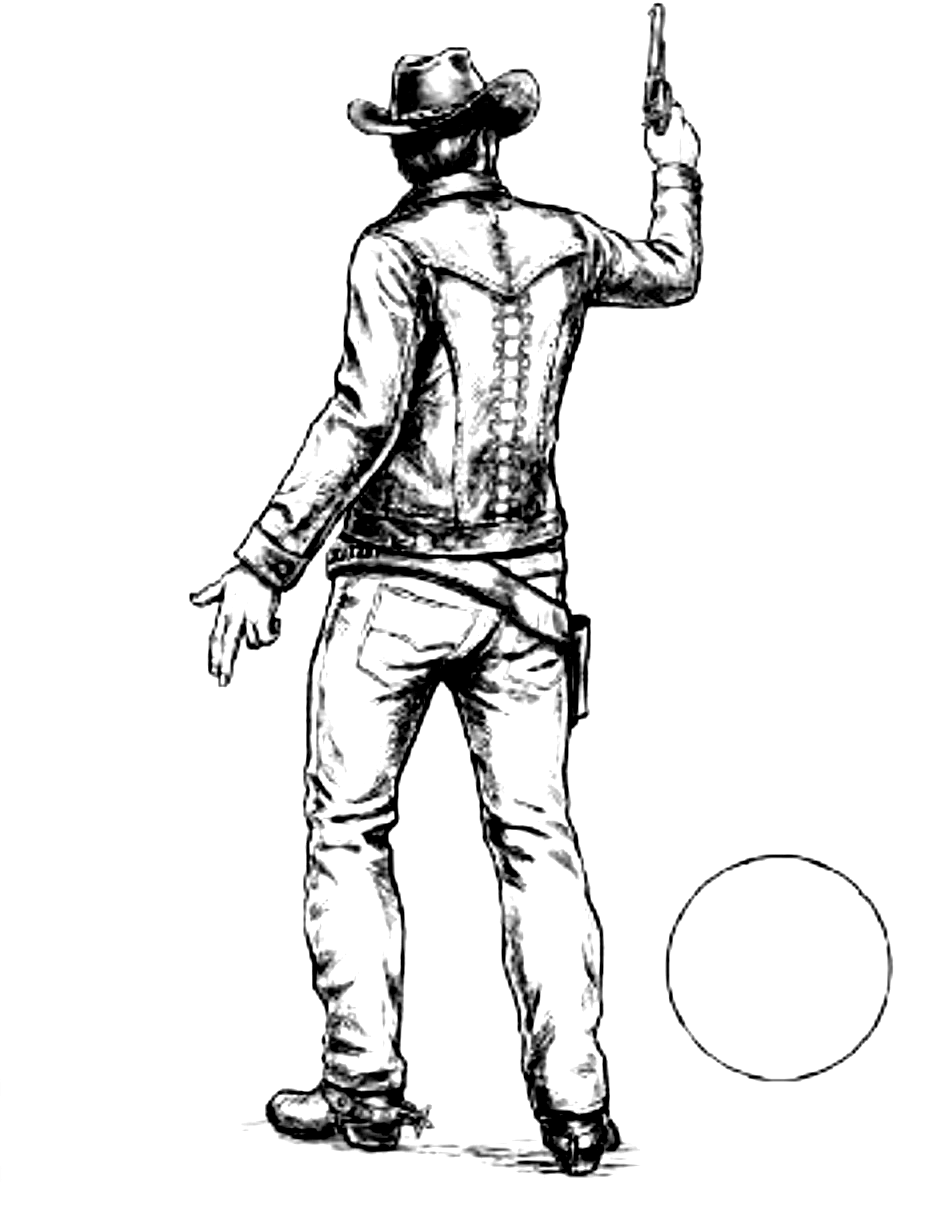
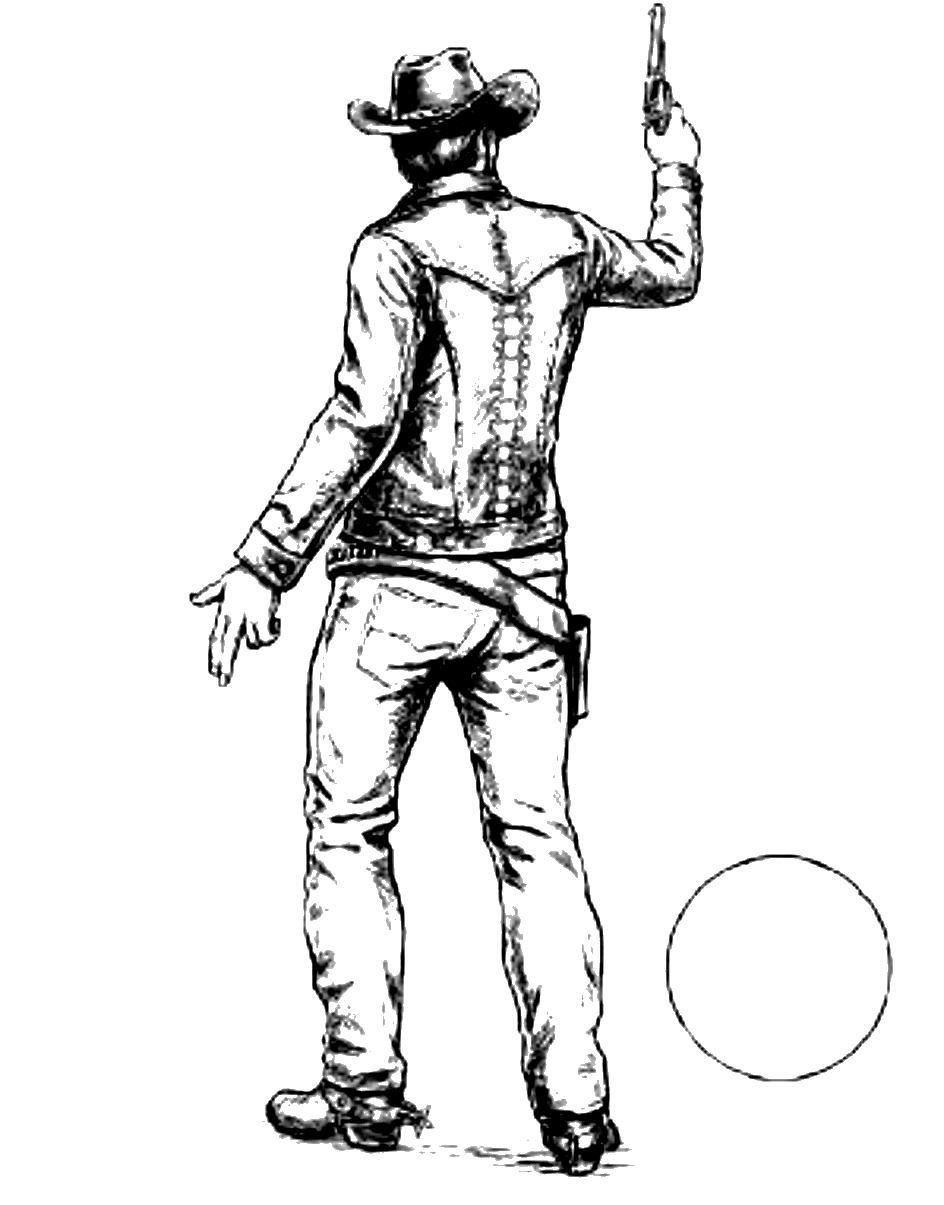
Gambler-style product pages: transparent illustrations, bigger price, denser text
- Removed white/gray background from Highwayman illustration (PNG transparency)
- Converted Desperado cowboy SVG to transparent PNG (removed tan background)
- Illustrations now blend directly into paper like vintage catalog ink drawings
- Price enlarged significantly (clamp 3rem-6rem) to match Gambler reference
- Added 5 body paragraphs per product (was 2) for denser text wrapping
- Removed ornament dividers, spec dividers, and redundant sizing lines
- Tighter padding, line-height, and margins throughout product pages
- Smaller footer seal, flush footer positioning

diff --git a/src/App.jsx b/src/App.jsx
@@ -84,8 +84,29 @@ const ProductPage = forwardRef((props, ref) => (
           chain stitch placket. Wheat symbol at the yoke — mark
           of the Famine rider.
         </p>
-        <div className="product-ornament">&middot; &middot; &middot;</div>
-        <hr className="product-spec-divider" />
+        <p className="product-copy">
+          Every seam is double-felled for durability on the
+          trail. The saddle-pattern stitching, rendered in
+          bone-white thread, runs continuous from shoulder
+          to cuff — a hallmark of authentic Western craft
+          dating to the earliest cavalry workshops of the
+          Arizona Territory.
+        </p>
+        <p className="product-copy">
+          Offered in four measured sizes, each cut to permit
+          a full range of motion in the saddle. The collar
+          folds to a sharp point; the placket runs straight
+          and true. This is not a garment of fashion — it is
+          a garment of purpose, built for those who ride hard
+          and answer to no man.
+        </p>
+        <p className="product-copy">
+          Pair with the Dante's riding boot and broadcloth
+          trouser for the complete outfit. Each jacket ships
+          in a waxed canvas sleeve, sealed with the Dante's
+          mark. Inquire within for custom sizing or
+          monogramming at additional charge.
+        </p>
         <div className="product-spec-list">
           <p><span>SHELL</span> 100% Cotton Cavalry Twill</p>
           <p><span>COLOR</span> Black (PANTONE 19-4006)</p>
@@ -95,7 +116,6 @@ const ProductPage = forwardRef((props, ref) => (
           <p><span>YOKE</span> Wheat Symbol — Famine</p>
           <p><span>PLACKET</span> Diamond Chain Stitch</p>
         </div>
-        <p className="product-sizing">S (36") · M (40") · L (44") · XL (48")</p>
       </div>
 
       {/* Bottom verse */}
@@ -194,7 +214,7 @@ const ProductPageDesperado = forwardRef((props, ref) => (
       {/* Main content — float-based text wrap */}
       <div className="product-content">
         <img
-          src="/cowboy.svg"
+          src="/cowboy.png"
           alt="The Desperado"
           className="product-illustration"
         />
@@ -211,8 +231,29 @@ const ProductPageDesperado = forwardRef((props, ref) => (
           pocket, left breast. Blackened brass snap closures
           from throat to hem.
         </p>
-        <div className="product-ornament">&middot; &middot; &middot;</div>
-        <hr className="product-spec-divider" />
+        <p className="product-copy">
+          The canvas is waxed by hand in our San Francisco
+          workshop — each coat brushed in three layers until
+          the surface holds a muted sheen that repels water
+          and wind alike. In time, the finish wears to reveal
+          the raw cotton beneath, telling the story of every
+          mile traveled.
+        </p>
+        <p className="product-copy">
+          Thirteen blackened brass snaps run throat to hem,
+          each one forged and tumbled to resist corrosion in
+          salt air and desert dust. The storm cape doubles as
+          a rain shield; the walking vent permits a clean mount.
+          A coat for men who do not come back the same way
+          they left.
+        </p>
+        <p className="product-copy">
+          Sized generously to fit over a jacket or vest. The
+          duster pairs with any garment in the Famine collection.
+          Ships folded in a canvas field bag. Allow four to six
+          weeks for delivery by overland post. Custom lengths
+          available upon request; inquire by mail.
+        </p>
         <div className="product-spec-list">
           <p><span>SHELL</span> Waxed Cotton Canvas (10oz)</p>
           <p><span>COLOR</span> Burnt Umber (PANTONE 19-1217)</p>
@@ -222,7 +263,6 @@ const ProductPageDesperado = forwardRef((props, ref) => (
           <p><span>CLOSURE</span> Blackened Brass Snaps</p>
           <p><span>LENGTH</span> Below Knee, Full Duster</p>
         </div>
-        <p className="product-sizing">S (38") · M (42") · L (46") · XL (50")</p>
       </div>
 
       {/* Bottom verse */}

diff --git a/src/styles.css b/src/styles.css
@@ -290,7 +290,7 @@ html, body {
   height: 100%;
   display: flex;
   flex-direction: column;
-  padding: 6px 10px 4px;
+  padding: 4px 8px 2px;
   container-type: inline-size;
 }
 
@@ -334,7 +334,7 @@ html, body {
   text-transform: uppercase;
   line-height: 0.92;
   margin: 0;
-  transform: scaleX(0.82);
+  transform: scaleX(0.88);
   transform-origin: left;
 }
 
@@ -349,7 +349,7 @@ html, body {
 .product-price-dollar {
   font-family: 'Playfair Display', serif;
   font-weight: 400;
-  font-size: 1.75rem;
+  font-size: clamp(1.8rem, 6cqw, 3rem);
   color: var(--ink);
   margin-top: 0.12em;
 }
@@ -357,9 +357,10 @@ html, body {
 .product-price-amount {
   font-family: 'Playfair Display', serif;
   font-weight: 900;
-  font-size: clamp(2.4rem, 9cqw, 5rem);
+  font-size: clamp(3rem, 12cqw, 6rem);
   color: var(--ink);
-  letter-spacing: -0.02em;
+  letter-spacing: -0.03em;
+  line-height: 0.85;
 }
 
 .product-tagline {
@@ -393,19 +394,19 @@ html, body {
   float: left;
   width: 50%;
   height: auto;
-  margin: 0 8px 4px 0;
+  margin: 0 6px 2px 0;
   object-fit: contain;
   shape-outside: margin-box;
   mix-blend-mode: multiply;
-  filter: sepia(8%) contrast(1.08);
+  filter: brightness(1.06) contrast(1.25) sepia(8%);
 }
 
 .product-copy {
   font-family: 'Libre Baskerville', serif;
-  font-size: 0.63rem;
+  font-size: 0.58rem;
   color: var(--ink-medium);
-  line-height: 1.38;
-  margin-bottom: 0.15em;
+  line-height: 1.3;
+  margin-bottom: 0.1em;
   text-align: justify;
   hyphens: auto;
   animation: page-element-enter 0.4s ease-out 0.6s both;
@@ -436,7 +437,7 @@ html, body {
   color: var(--ink-medium);
   line-height: 1.25;
   border-bottom: 1px dotted rgba(0,0,0,0.08);
-  padding: 1px 0;
+  padding: 0;
   margin: 0;
   break-inside: avoid;
 }
@@ -461,16 +462,17 @@ html, body {
 
 /* Bottom verse */
 .product-footer {
-  margin-top: 2px;
-  padding-top: 1px;
+  clear: both;
+  margin-top: 0;
+  padding-top: 0;
 }
 
 .product-verse {
   font-family: 'Libre Baskerville', serif;
   font-style: italic;
-  font-size: 0.75rem;
+  font-size: 0.6rem;
   color: var(--ink-medium);
-  margin-top: 2px;
+  margin-top: 0;
 }
 
 .product-footer-row {
@@ -484,8 +486,8 @@ html, body {
 }
 
 .product-seal-img {
-  width: 28px;
-  height: 28px;
+  width: 18px;
+  height: 18px;
   object-fit: contain;
   opacity: 0.25;
   filter: sepia(20%);
